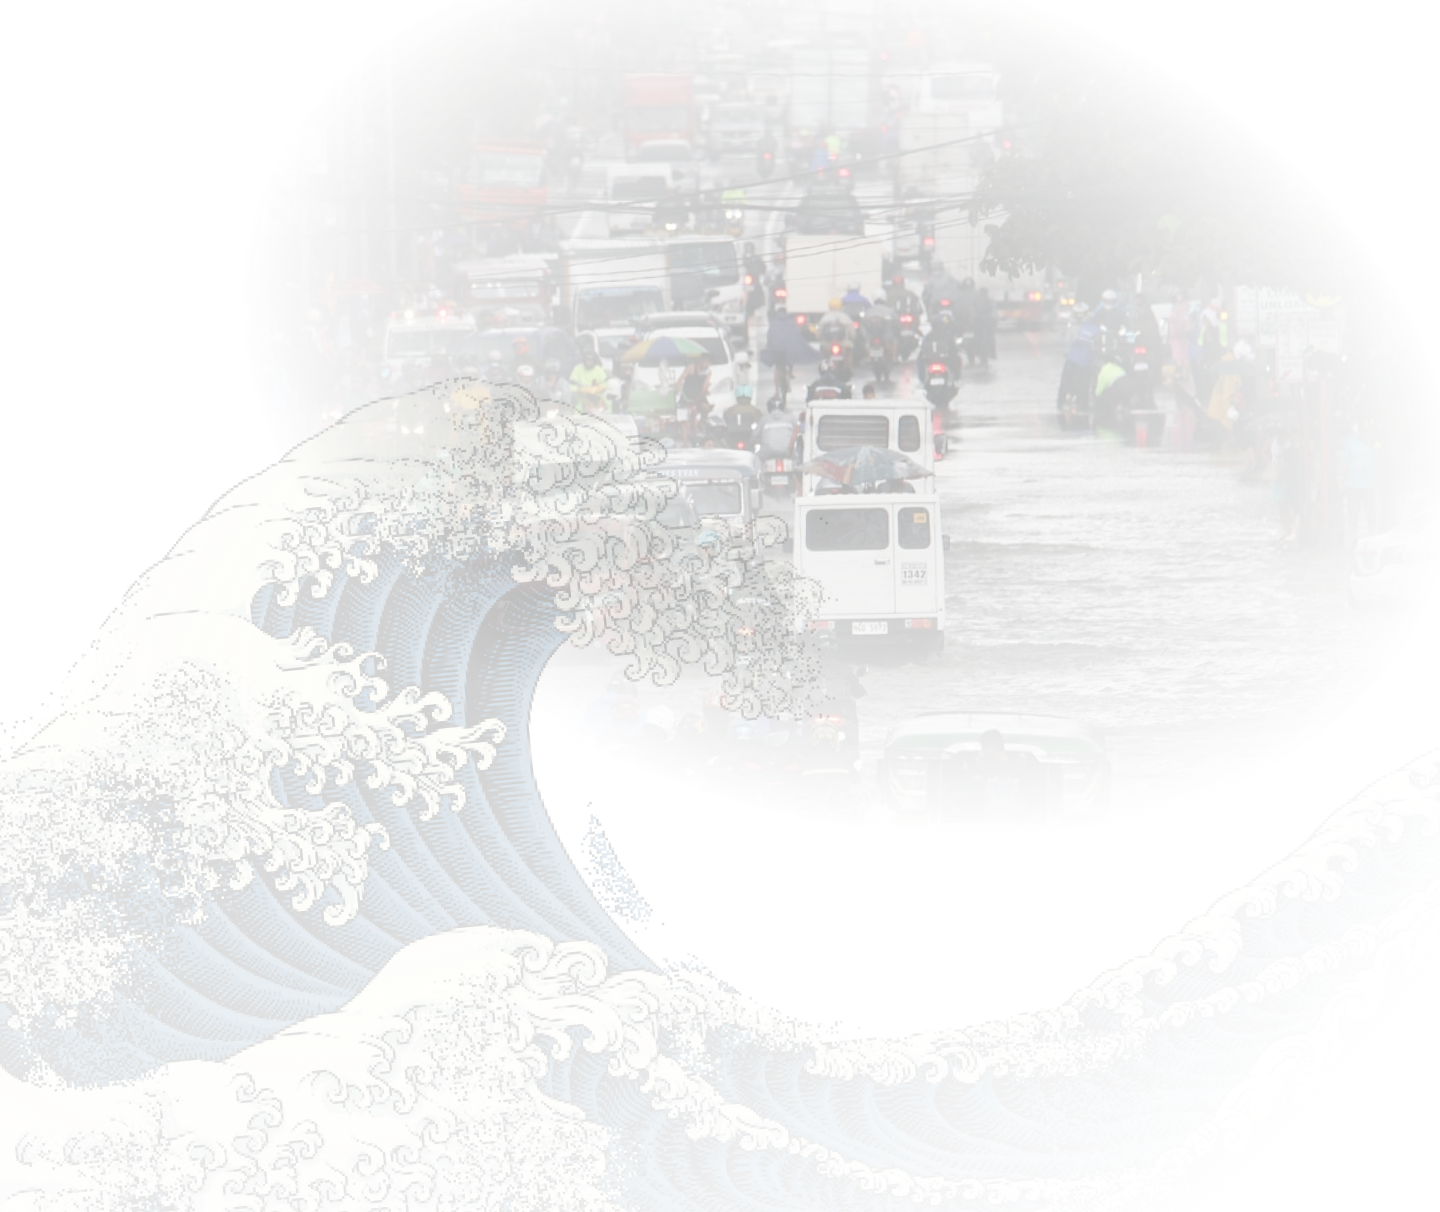
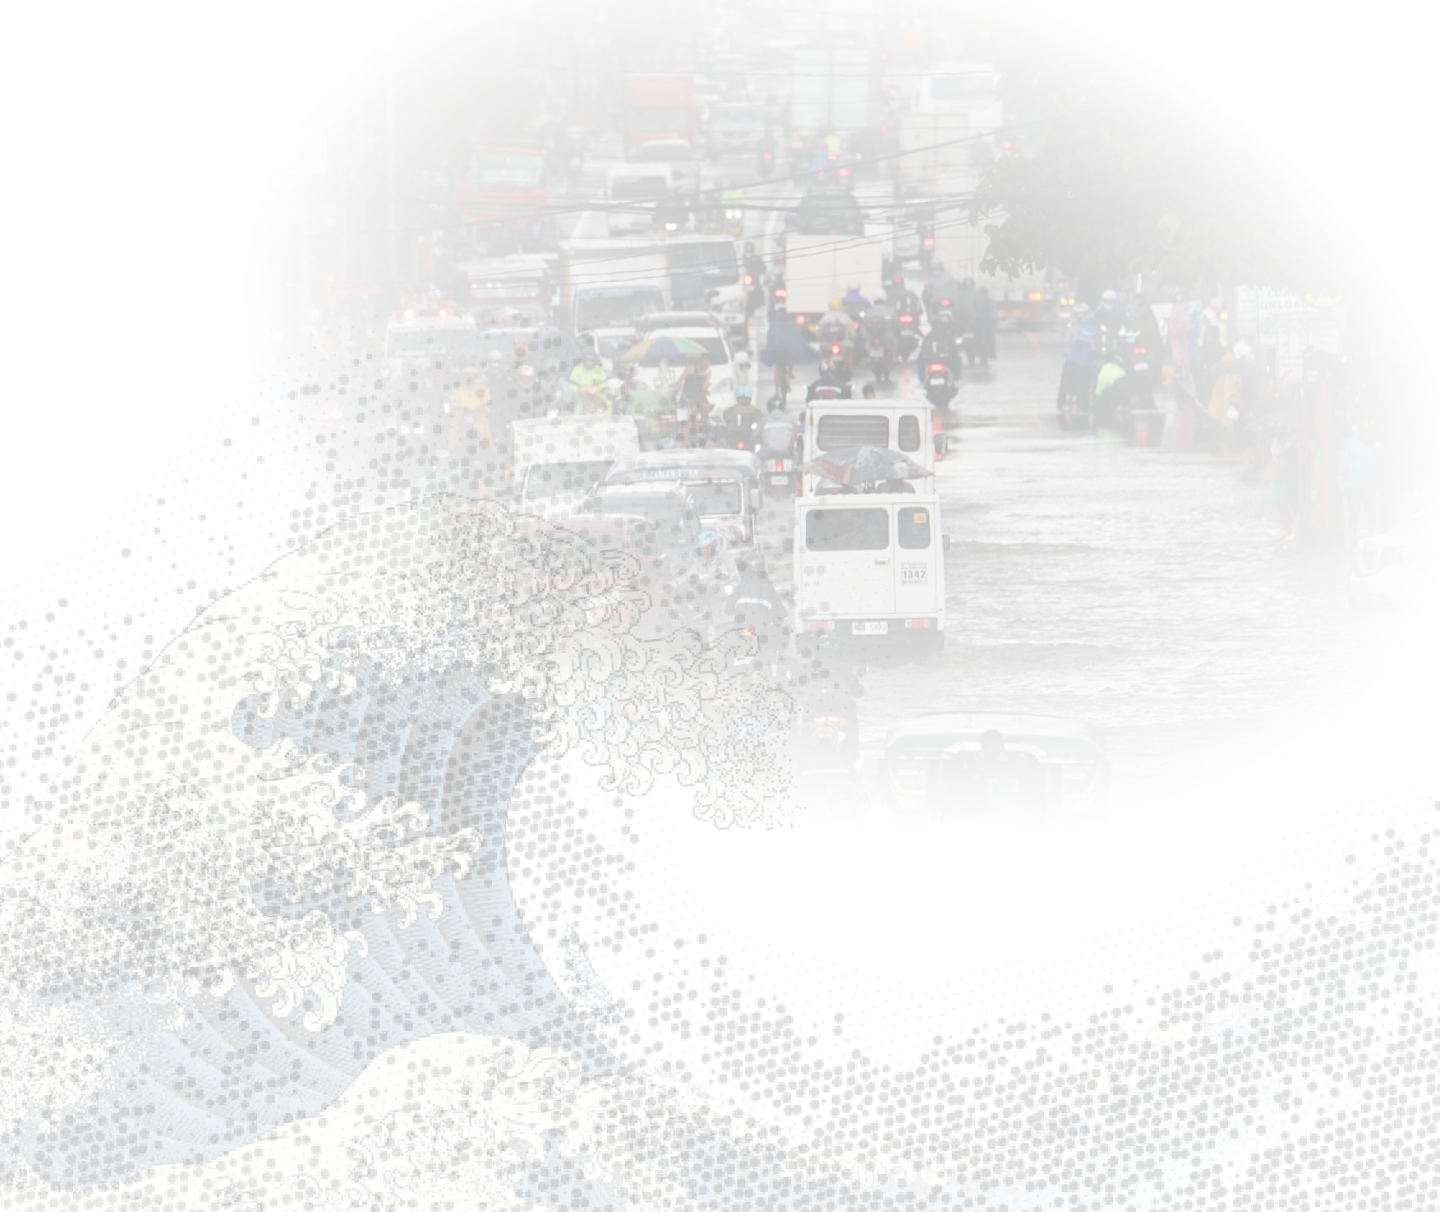
Added supporting images in actions, Added clouds and updated the preface bg

diff --git a/index.html b/index.html
@@ -33,8 +33,8 @@
         <aside>
             <button id="interactable">Show Colors</button>
         </aside>
-        <article class="preface" id="colorChangeBound">
-            <div class="content">
+        <article class="preface colorChangeBound">
+            <section class="content">
                 <h1>NALULULUNOD SA PANGANGAMBA</h1>
                 <h2>SAAN KA KAKAPIT, <span>KUNG MALALIM NA</span></h2>
                 <p>
@@ -47,7 +47,7 @@
                     pagbulaybulayin ang mga pangyayari at kabiguan ng ating gobyerno.
                 </p>
                 <span class="source">Lunod (Ben&Ben, feat. Juan Karlos, Zild)</span>
-            </div>
+            </section>
         </article>
         <article class="infographic">
             <div class="profile">
@@ -114,7 +114,7 @@
                 </p>
             </section>
         </article>
-        <article class="upuan" id="colorChangeBound">
+        <article class="upuan colorChangeBound">
             <section class="head">
                 <div class="throne">
                     <img src="images/PikPng.com_throne-png_475054.png" alt="Throne" />
@@ -221,7 +221,7 @@
                 </p>
             </section>
         </article>
-        <article class="action" id="colorChangeBound">
+        <article class="action colorChangeBound">
             <section class="head">
                 <div class="display">
                     <div class="title">
@@ -235,6 +235,7 @@
                     </div>
                 </div>
                 <img src="images/edsa cutout.png" alt="EDSA People Power" />
+                <img src="images/edsa bg.png" alt="EDSA People Power" />
             </section>
             <section class="intro">
                 <p>
@@ -247,49 +248,64 @@
                     <h1>
                         THE GOVERNMENT IS BUILT BY THE PEOPLE FOR THE PEOPLE
                     </h1>
-                    <p>
-                        Akala niyo ba, ang kapangyarihan ay nasa inyo? Sino ba kayo? —Ben & Ben, SB19 (2022)
-                    </p>
-                    <p>
-                        Tandaan na ang gobyero ay binuo nating mga tao para sa mga tao. Ang ibig sabihin lamang nito ay
-                        nasa
-                        atin ang kapangyarihan at wala sa mga politiko at opisyales na naka-upo sa gobyerno. At sa mga
-                        panahon na kailangan nating uminda, dapat tayong bumoses at uminda. Karapatan ng bawat Pilipino
-                        ang
-                        isigaw ang mga hinaing nito. Bilang isang bansang demokrasya, may kapangyarihan tayong mamili,
-                        magsalita, magaling, manghusta, kumilatis, bumoto at manindigan.
-                    </p>
+                    <div>
+                        <div>
+                            <p class="line-height-2">
+                                Akala niyo ba, ang kapangyarihan ay nasa inyo? Sino ba kayo? —Ben & Ben, SB19 (2022)
+                            </p>
+                            <p class="line-height-2">
+                                Tandaan na ang gobyero ay binuo nating mga tao para sa mga tao. Ang ibig sabihin lamang nito ay
+                                nasa
+                                atin ang kapangyarihan at wala sa mga politiko at opisyales na naka-upo sa gobyerno. At sa mga
+                                panahon na kailangan nating uminda, dapat tayong bumoses at uminda. Karapatan ng bawat Pilipino
+                                ang
+                                isigaw ang mga hinaing nito. Bilang isang bansang demokrasya, may kapangyarihan tayong mamili,
+                                magsalita, magaling, manghusta, kumilatis, bumoto at manindigan.
+                            </p>
+                        </div>
+                        <img src="images/action 1.png" alt="action 1"/>
+                    </div>
                 </section>
                 <section class="action-2">
-                    <h1>
-                        SINO NGA BA SI WISELY?
-                    </h1>
-                    <p>
-                        Kada-eleksyon, lagi nating na lang naririnig si na “Vote Wisely”. Bilang isang Pilipino, malaya
-                        tayong magtalaga ng taong maglilingkod para sa bayan. Karapatang natin ang bumoto, ngunit kung
-                        bawat
-                        eleskyon na lang aLorem ipsum dolor sit amet, consectetur adipiscing elit. Praesent fringilla
-                        nisi
-                        ex, sit amet consectetur tortor accumsan ut. Etiam at porttitor diam, et posuere purus. Morbi
-                        ultrices at nisl a porttitor. Donec interdum faucibus nibh a
-                    </p>
+                    <div>
+                        <img src="images/action 2.png" alt="action 2"/>
+                        <div>
+                            <h1>
+                                SINO NGA BA SI WISELY?
+                            </h1>
+                            <p class="line-height-2">
+                                Kada-eleksyon, lagi nating na lang naririnig si na “Vote Wisely”. Bilang isang Pilipino, malaya
+                                tayong magtalaga ng taong maglilingkod para sa bayan. Karapatang natin ang bumoto, ngunit kung
+                                bawat
+                                eleskyon na lang aLorem ipsum dolor sit amet, consectetur adipiscing elit. Praesent fringilla
+                                nisi
+                                ex, sit amet consectetur tortor accumsan ut. Etiam at porttitor diam, et posuere purus. Morbi
+                                ultrices at nisl a porttitor. Donec interdum faucibus nibh a
+                            </p>
+                        </div>
+                    </div>
                 </section>
                 <section class="action-3">
                     <h1>
                         MAPAGMATYAG
                     </h1>
-                    <p>
-                        Akala niyo ba, ang kapangyarihan ay nasa inyo? Sino ba kayo? —Ben & Ben, SB19 (2022)
-                    </p>
-                    <p>
-                        Tandaan na ang gobyero ay binuo nating mga tao para sa mga tao. Ang ibig sabihin lamang nito ay
-                        nasa
-                        atin ang kapangyarihan at wala sa mga politiko at opisyales na naka-upo sa gobyerno. At sa mga
-                        panahon na kailangan nating uminda, dapat tayong bumoses at uminda. Karapatan ng bawat Pilipino
-                        ang
-                        isigaw ang mga hinaing nito. Bilang isang bansang demokrasya, may kapangyarihan tayong mamili,
-                        magsalita, bumoto at manindigan.
-                    </p>
+                    <div>
+                        <div>
+                            <p class="line-height-2">
+                                Akala niyo ba, ang kapangyarihan ay nasa inyo? Sino ba kayo? —Ben & Ben, SB19 (2022)
+                            </p>
+                            <p class="line-height-2">
+                                Tandaan na ang gobyero ay binuo nating mga tao para sa mga tao. Ang ibig sabihin lamang nito ay
+                                nasa
+                                atin ang kapangyarihan at wala sa mga politiko at opisyales na naka-upo sa gobyerno. At sa mga
+                                panahon na kailangan nating uminda, dapat tayong bumoses at uminda. Karapatan ng bawat Pilipino
+                                ang
+                                isigaw ang mga hinaing nito. Bilang isang bansang demokrasya, may kapangyarihan tayong mamili,
+                                magsalita, bumoto at manindigan.
+                            </p>
+                        </div>
+                        <img src="images/action 3.png" alt="action 3"/>
+                    </div>
                 </section>
             </div>
         </article>

diff --git a/styles/preface.css b/styles/preface.css
@@ -4,21 +4,41 @@
   overflow: hidden;
 }
 
+.preface::before {
+  content: "";
+  /* mix-blend-mode: difference; */
+  position: absolute;
+  background: url("../images/dark cloud.png") no-repeat -30em -17em/contain, url("../images/dark cloud.png") no-repeat 55em -25em/contain;
+  top: 0;
+  z-index: 2;
+  width: 100%;
+  height: 100em;
+}
+
 .preface .content {
-  max-width: 80em;
+  max-width: 85em;
   padding: 10em 0;
   margin: auto;
+}
+.preface .content::before {
+    content: "";
+  position: absolute;
+  inset: 0;
+  z-index: 1;
+  background: url("../images/Rectangle 10.svg") no-repeat center/cover;
 }
 
 .preface h1 {
   font-family: "Impact";
-  font-size: var(--type-3xl);
+  font-size: var(--type-4xl);
   line-height: var(--leading-tight);
+  position: relative;
+  z-index: 10;
 }
 
 .preface h2 {
   font-family: "Futura Md";
-  font-size: var(--type-lg);
+  font-size: var(--type-xl);
   margin-top: 0.5em;
   max-width: 20em;
 }
@@ -29,19 +49,20 @@
 .preface p {
   line-height: 2;
   max-width: 45em;
-  padding-top: 20em;
+  padding-top: 30em;
   margin-left: auto;
   position: relative;
+  z-index: 10;
 }
 
-.preface p::after {
+.preface p::before {
   content: "";
   position: absolute;
-  top: -10em;
+  top: 0;
   right: -10%;
   aspect-ratio: 1 / 1; /* keep it square */
   width: 80%;
-  background: url("../images/flood gallery 1.png") no-repeat center/cover;
+  background: url("../images/flood gallery 1.png") no-repeat center/contain;
 }
 
 .preface .source {
@@ -49,7 +70,9 @@
   margin-top: 1em;
   font-size: var(--type-sm);
   font-style: italic;
-  opacity: 0.5;
+  opacity: 0.87;
+  position: relative;
+  z-index: 10;
 }
 
 .preface {
@@ -63,7 +86,7 @@
   inset: 0;
   z-index: -1;
   background-size: contain;
-  background: url("../images/flood bg.png");
+  background: url("../images/flood bg.png") no-repeat center/cover;
   background-repeat: no-repeat;
   background-position: center;
 }

diff --git a/styles/action.css b/styles/action.css
@@ -37,6 +37,13 @@
   padding-top: 5em;
   width: 66em;
 }
+.action .head img:first-of-type {
+  position: relative;
+  z-index: 1;
+}
+.action .head img:last-of-type {
+  scale: 1.6;
+}
 .action .intro {
   padding-top: 1em;
   max-width: 40em;
@@ -62,21 +69,43 @@
 }
 
 .actions {
+  max-width: 72em;
+  margin: auto;
   padding-top: 7em;
   display: flex;
   flex-direction: column;
-  gap: 6em;
+  gap: 8em;
+  margin-top: 10em;
 }
 
 .action .action-1,
 .action .action-2,
 .action .action-3 {
-  margin: auto;
-  max-width: 60em;
+  /* margin: auto; */
+}
+
+.action .action-1 > div,
+.action .action-2 > div,
+.action .action-3 > div {
+  display: flex;
+  flex-direction: row;
+}
+
+.action .action-1 > div > img,
+.action .action-3 > div > img {
+  opacity: 0.6;
+  margin-top: -10em;
+  transform: translateX(22%);
+}
+
+.action .action-2 > div > img {
+  margin-top: -3em;
+  opacity: 0.6;
+  transform: translateX(-32%);
 }
 
 .action .action-1 p,
 .action .action-2 p,
 .action .action-3 p {
-  line-height: 2;
+  max-width: 50em;
 }

diff --git a/styles.css b/styles.css
@@ -42,7 +42,7 @@
   --type-xxs: 0.236rem; /* ~3.78px  */
   --type-xs: 0.382rem; /* ~6.11px  */
   --type-sm: 0.618rem; /* ~9.89px  */
-  --type-base: 1rem; /* 16px    */
+  --type-base: 16px; /* 16px    */
   --type-lg: 1.618rem; /* ~25.89px*/
   --type-xl: 2.618rem; /* ~41.89px*/
   --type-2xl: 4.236rem; /* ~67.78px*/

diff --git a/script.js b/script.js
@@ -1,4 +1,4 @@
-const colorChangeBoundSection = document.querySelectorAll("#colorChangeBound");
+const colorChangeBoundSection = document.querySelectorAll(".colorChangeBound");
 
 function changeColor() {
     const colors = ["#1a1816", "#282518", "#282c1d", "#212828"]

diff --git a/styles/hero.css b/styles/hero.css
@@ -3,6 +3,8 @@ header {
   background-repeat: no-repeat;
   background-position: center;
   background-size: cover;
+  overflow: hidden;
+  position: relative;
 }
 
 header section::before {

diff --git a/styles/cssreset.css b/styles/cssreset.css
@@ -28,6 +28,7 @@ img, picture, video, canvas, svg {
   max-width: 100%;
 }
 
+
 /* 7. Inherit fonts for form controls */
 input, button, textarea, select {
   font: inherit;

diff --git a/styles/upuan.css b/styles/upuan.css
@@ -109,7 +109,7 @@
 }
 
 .vico div:first-of-type {
-  width: 90em;
+  max-width: 90em;
   margin: auto;
   position: relative;
 }
